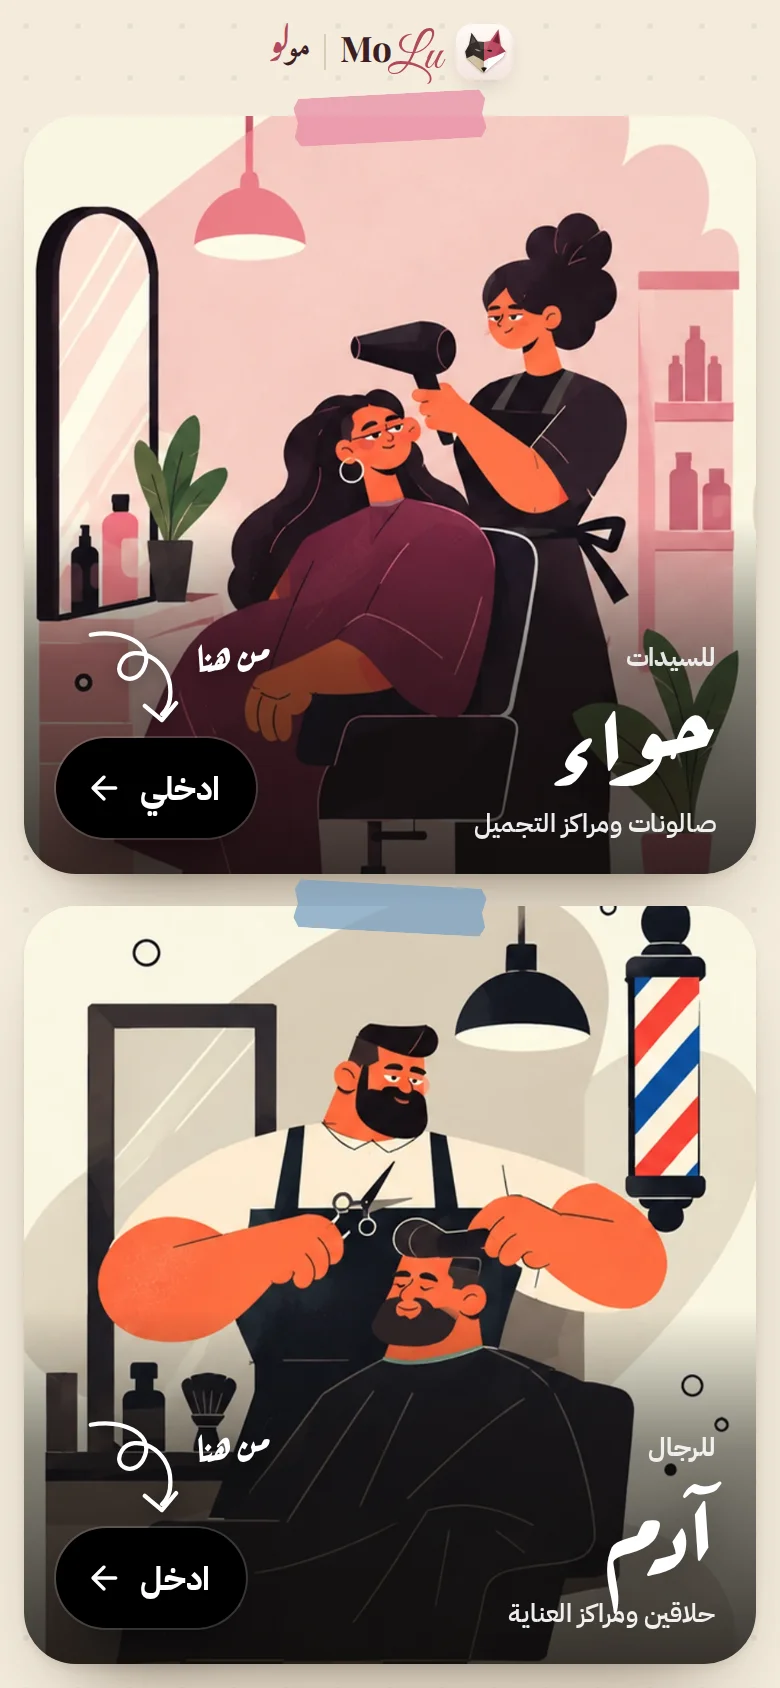
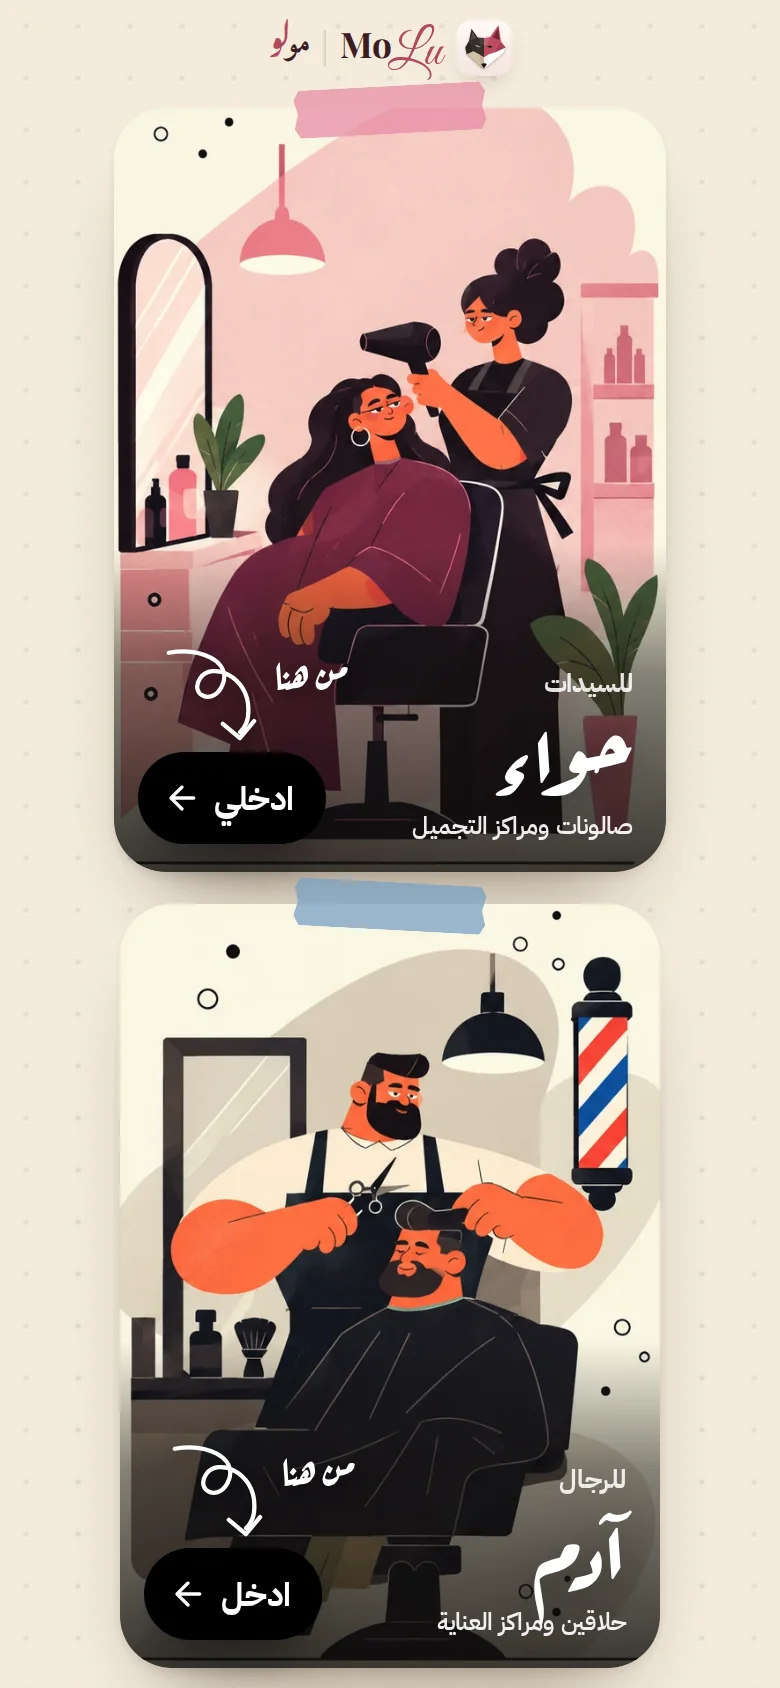
MoLu gate: whole illustration fills each card exactly; borderless buttons
Tighter crops of each scene from the original artwork (eve/adam-full-*),
and each card now has exactly the picture's shape at the largest size its
row allows — the full illustration, no cropping, no empty strips. The
black pill buttons lose their outline.

Claude-Session: https://claude.ai/code/session_01YDDWUymGc1xUJNLzFw3adr

diff --git a/molu/index.html b/molu/index.html
@@ -6,8 +6,8 @@
 <meta name="theme-color" content="#F4ECDD">
 <title>مولو — حواء وآدم</title>
 <meta name="description" content="احجز في أقرب صالون نسائي أو حلاق رجالي بدقيقة واحدة.">
-<link rel="preload" href="img/eve-960.webp" as="image" fetchpriority="high">
-<link rel="preload" href="img/adam-960.webp" as="image" fetchpriority="high">
+<link rel="preload" href="img/eve-full-560.webp" as="image" fetchpriority="high">
+<link rel="preload" href="img/adam-full-560.webp" as="image" fetchpriority="high">
 <link rel="preload" href="fonts/ArefRuqaa-700-arabic.woff2" as="font" type="font/woff2" crossorigin>
 <link rel="stylesheet" href="css/fonts.css">
 <link rel="stylesheet" href="css/gate.css">
@@ -19,15 +19,15 @@
     <a class="molu-logo" href="index.html" aria-label="MoLu مولو"><svg class="logo-mark" aria-hidden="true" xmlns="http://www.w3.org/2000/svg" viewBox="0 0 100 100"><defs><linearGradient id="b" x1="0" y1="0" x2="0" y2="1"><stop offset="0" stop-color="#fffaf7"/><stop offset="1" stop-color="#f3e4de"/></linearGradient><filter id="sh" x="-20%" y="-20%" width="140%" height="150%"><feDropShadow dx="0" dy="1.8" stdDeviation="1.8" flood-color="#5a2a33" flood-opacity=".28"/></filter></defs><rect width="100" height="100" rx="22" fill="url(#b)"/><g transform="translate(7 6.14) scale(0.86)" filter="url(#sh)"><path d="M50 30 L37 29 L24 11 L19 36 L11 50 L14 64 L30 78 L44 91 L50 94 Z" fill="#352f2c"/><path d="M26 17 L22 34 L33 30 Z" fill="#5e534c"/><path d="M50 30 L63 28 L80 4 L85 38 L95 50 L90 62 L72 76 L56 90 L50 94 Z" fill="#bd4b61"/><path d="M79 11 L82 34 L68 29 Z" fill="#7d2537"/><path d="M50 30 L37 29 L44 46 L50 44 Z" fill="#fff" opacity=".09"/><path d="M50 30 L63 28 L56 46 L50 44 Z" fill="#fff" opacity=".13"/><path d="M19 36 L11 50 L14 64 L28 58 Z" fill="#000" opacity=".16"/><path d="M85 38 L95 50 L90 62 L74 60 Z" fill="#000" opacity=".14"/><path d="M24 11 L19 36 L30 30 Z" fill="#000" opacity=".12"/><path d="M80 4 L85 38 L72 30 Z" fill="#000" opacity=".1"/><path d="M14 64 L30 78 L44 91 L50 94 L50 70 L40 64 L28 58 Z" fill="#d2bf9f"/><path d="M95 50 L90 62 L72 76 L56 90 L50 94 L50 70 L60 64 L74 60 Z" fill="#fff"/><path d="M50 70 L40 64 L44 91 L50 94 Z" fill="#000" opacity=".07"/><path d="M50 70 L60 64 L56 90 L50 94 Z" fill="#000" opacity=".05"/><path d="M30 44 Q37 44.5 44 49 Q36.5 51.5 30 44 Z" fill="#a8957f"/><path d="M68 49 Q62 44 56 48 Q62 52 68 49 Z" fill="#171412"/><path d="M44 84 Q50 81 56 84 L50 93 Z" fill="#171412"/></g></svg><span class="logo-latin" dir="ltr"><span class="mo">Mo</span><span class="lu">Lu</span></span><span class="logo-sep"></span><span class="logo-ar"><span class="mo">مو</span><span class="lu">لو</span></span></a>
   </header>
   <main class="wall">
-    <a class="poster eve" href="explore.html?s=eve" data-k="eve" aria-label="ادخلي قسم حواء — صالونات ومراكز التجميل للسيدات">
-      <img src="img/eve-960.webp" srcset="img/eve-560.webp 560w, img/eve-960.webp 960w" sizes="(min-width: 820px) 48vw, 100vw" width="960" height="1350" alt="" decoding="async" fetchpriority="high">
+    <a class="poster eve" style="--ar: 628 / 868" href="explore.html?s=eve" data-k="eve" aria-label="ادخلي قسم حواء — صالونات ومراكز التجميل للسيدات">
+      <img src="img/eve-full-560.webp" srcset="img/eve-full-560.webp 560w, img/eve-full-960.webp 628w" sizes="(min-width: 820px) 34vw, 72vw" width="628" height="868" alt="" decoding="async" fetchpriority="high">
       <i class="tape" aria-hidden="true"></i>
       <span class="cap"><small>للسيدات</small><b>حواء</b><span>صالونات ومراكز التجميل</span></span>
       <span class="hint" aria-hidden="true"><span>من هنا</span><svg class="squig" viewBox="0 0 90 70" aria-hidden="true"><path pathLength="1" d="M74 6C52 2 30 12 36 28s24 8 16-4-34-2-34 22c0 8 2 12 6 16"/><path pathLength="1" class="head" d="M14 54l10 12 12-10"/></svg></span>
       <span class="go">ادخلي<svg class="ms " viewBox="0 -960 960 960" width="20" height="20" aria-hidden="true"><path fill="currentColor" d="m313-440 196 196q12 12 11.5 28T508-188q-12 11-28 11.5T452-188L188-452q-6-6-8.5-13t-2.5-15q0-8 2.5-15t8.5-13l264-264q11-11 27.5-11t28.5 11q12 12 12 28.5T508-715L313-520h447q17 0 28.5 11.5T800-480q0 17-11.5 28.5T760-440H313Z"/></svg></span>
     </a>
-    <a class="poster adam" href="explore.html?s=adam" data-k="adam" aria-label="ادخل قسم آدم — حلاقين ومراكز العناية للرجال">
-      <img src="img/adam-960.webp" srcset="img/adam-560.webp 560w, img/adam-960.webp 960w" sizes="(min-width: 820px) 48vw, 100vw" width="960" height="1371" alt="" decoding="async" fetchpriority="high">
+    <a class="poster adam" style="--ar: 612 / 868" href="explore.html?s=adam" data-k="adam" aria-label="ادخل قسم آدم — حلاقين ومراكز العناية للرجال">
+      <img src="img/adam-full-560.webp" srcset="img/adam-full-560.webp 560w, img/adam-full-960.webp 612w" sizes="(min-width: 820px) 34vw, 72vw" width="612" height="868" alt="" decoding="async" fetchpriority="high">
       <i class="tape" aria-hidden="true"></i>
       <span class="cap"><small>للرجال</small><b>آدم</b><span>حلاقين ومراكز العناية</span></span>
       <span class="hint" aria-hidden="true"><span>من هنا</span><svg class="squig" viewBox="0 0 90 70" aria-hidden="true"><path pathLength="1" d="M74 6C52 2 30 12 36 28s24 8 16-4-34-2-34 22c0 8 2 12 6 16"/><path pathLength="1" class="head" d="M14 54l10 12 12-10"/></svg></span>

diff --git a/molu/css/gate.css b/molu/css/gate.css
@@ -8,7 +8,7 @@
 html, body { margin: 0; background: var(--wall); }
 body { color: #2D2D2D; font-family: 'IBM Plex Sans Arabic', system-ui, sans-serif; -webkit-font-smoothing: antialiased; overscroll-behavior: none; }
 a { color: inherit; text-decoration: none; -webkit-tap-highlight-color: transparent; }
-.gx { height: 100dvh; min-height: 560px; display: flex; flex-direction: column; gap: 12px; padding: max(10px, env(safe-area-inset-top)) 12px max(12px, env(safe-area-inset-bottom)); overflow: hidden;
+.gx { height: 100dvh; min-height: 560px; display: flex; flex-direction: column; gap: 8px; padding: max(8px, env(safe-area-inset-top)) 10px max(10px, env(safe-area-inset-bottom)); overflow: hidden;
   background: radial-gradient(circle, rgba(45, 45, 45, .08) 1.2px, transparent 1.6px) 0 0 / 26px 26px, var(--wall); }
 
 .gx-head { display: flex; justify-content: center; padding-top: 2px; }
@@ -22,32 +22,32 @@ a { color: inherit; text-decoration: none; -webkit-tap-highlight-color: transpar
 .logo-ar .mo { font-family: 'MoLu Naskh', 'Amiri', serif; font-weight: 700; color: #3A1C24; }
 .logo-ar .lu { display: inline-block; font-family: 'MoLu Nastaliq', 'Gulzar', serif; font-size: 1.35em; color: #B0485C; margin-inline-start: -.12em; transform: translateY(.12em); }
 
-.wall { flex: 1; min-height: 0; display: grid; grid-template-rows: 1fr 1fr; gap: 16px; padding-top: 6px; }
+.wall { flex: 1; min-height: 0; display: grid; grid-template-rows: minmax(0, 1fr) minmax(0, 1fr); gap: 16px; padding-top: 8px; }
 @media (min-width: 820px) { .wall { grid-template-rows: none; grid-template-columns: 1fr 1fr; gap: 24px; } .gx { padding-inline: 28px; } }
 
-.poster { --c: var(--eve); --tape: rgba(232, 140, 165, .75); position: relative; display: block; min-height: 0; border-radius: 26px; background: #FAF6E2;
+.poster { --c: var(--eve); --tape: rgba(232, 140, 165, .75); position: relative; display: block; min-height: 0; height: 100%; max-width: 100%; aspect-ratio: var(--ar); justify-self: center; border-radius: 26px; background: #FAF6E2;
   box-shadow: 0 2px 4px rgba(60, 40, 20, .08), 0 24px 44px -26px rgba(60, 40, 20, .65);
   animation: up .35s var(--ease) both; transition: transform .16s ease-out; }
 .poster.adam { --c: var(--adam); --tape: rgba(120, 160, 195, .75); animation-delay: .06s; }
-.poster img { position: absolute; inset: 0; width: 100%; height: 100%; object-fit: cover; object-position: 50% 42%; border-radius: inherit; }
+.poster img { position: absolute; inset: 0; width: 100%; height: 100%; object-fit: cover; border-radius: inherit; }   /* same shape as the card → nothing is cropped */
 .poster:active { transform: scale(.98); }
 .poster:focus-visible { outline: 3px solid var(--c); outline-offset: 4px; }
 .tape { position: absolute; z-index: 2; top: -11px; left: 50%; width: 96px; height: 24px; translate: -50% 0; rotate: -3deg; background: var(--tape); border-radius: 3px;
   clip-path: polygon(3% 0, 97% 0, 100% 20%, 98% 50%, 100% 80%, 97% 100%, 3% 100%, 0 80%, 2% 50%, 0 20%); }
 .poster.adam .tape { rotate: 3deg; }
-.cap { position: absolute; inset: auto 0 0; display: grid; padding: 60px 20px 16px 140px; border-radius: 0 0 26px 26px; color: #fff;
+.cap { position: absolute; inset: auto 0 0; display: grid; padding: 60px 16px 14px 128px; border-radius: 0 0 26px 26px; color: #fff;
   background: linear-gradient(180deg, transparent, rgba(16, 13, 11, .5) 40%, rgba(16, 13, 11, .82)); }
 .cap small { font: 700 .8rem 'IBM Plex Sans Arabic', sans-serif; opacity: .88; }
-.cap b { font: 700 clamp(3rem, 14vw, 5rem)/1.05 'Aref Ruqaa', serif; padding-bottom: .3em; margin-bottom: -.18em; text-shadow: 0 4px 18px rgba(0, 0, 0, .4); }
-.cap span { font: 600 .8rem 'IBM Plex Sans Arabic', sans-serif; opacity: .92; }
+.cap b { font: 700 clamp(2.6rem, 12vw, 4.6rem)/1.05 'Aref Ruqaa', serif; padding-bottom: .3em; margin-bottom: -.18em; text-shadow: 0 4px 18px rgba(0, 0, 0, .4); }
+.cap span { font: 600 .74rem/1.4 'IBM Plex Sans Arabic', sans-serif; opacity: .92; }
 /* iPhone-style black pill button */
-.go { position: absolute; inset-inline-end: 16px; bottom: 18px; display: inline-flex; align-items: center; gap: 8px; height: 50px; padding: 0 18px 0 14px; border-radius: 25px;
+.go { position: absolute; inset-inline-end: 12px; bottom: 14px; display: inline-flex; align-items: center; gap: 6px; height: 46px; padding: 0 16px 0 12px; border-radius: 25px;
   background: #000; color: #fff; font: 700 1.02rem 'IBM Plex Sans Arabic', -apple-system, system-ui, sans-serif;
-  box-shadow: 0 0 0 1px rgba(255, 255, 255, .16), 0 12px 26px -10px rgba(0, 0, 0, .7); }
+  box-shadow: 0 12px 26px -10px rgba(0, 0, 0, .7); }
 .go svg { transition: transform .2s var(--ease); }
 .poster:active .go svg { transform: translateX(-4px); }
 /* the hand-drawn «من هنا» pointing down at the button */
-.hint { position: absolute; z-index: 2; inset-inline-end: 22px; bottom: 74px; display: flex; align-items: flex-end; gap: 0; color: #fff; pointer-events: none; }
+.hint { position: absolute; z-index: 2; inset-inline-end: 16px; bottom: 64px; display: flex; align-items: flex-end; gap: 0; color: #fff; pointer-events: none; }
 .hint span { font: 700 1.25rem/1 'Aref Ruqaa', serif; text-shadow: 0 2px 10px rgba(0, 0, 0, .55); transform: translateY(-26px); animation: fadein .3s .5s ease-out both; }
 .squig { width: 64px; height: 50px; fill: none; stroke: #fff; stroke-width: 3; stroke-linecap: round; stroke-linejoin: round; filter: drop-shadow(0 2px 4px rgba(0, 0, 0, .45)); transform: scaleX(-1); }
 .squig path { stroke-dasharray: 1; stroke-dashoffset: 1; animation: draw .6s .55s ease-out forwards; }
